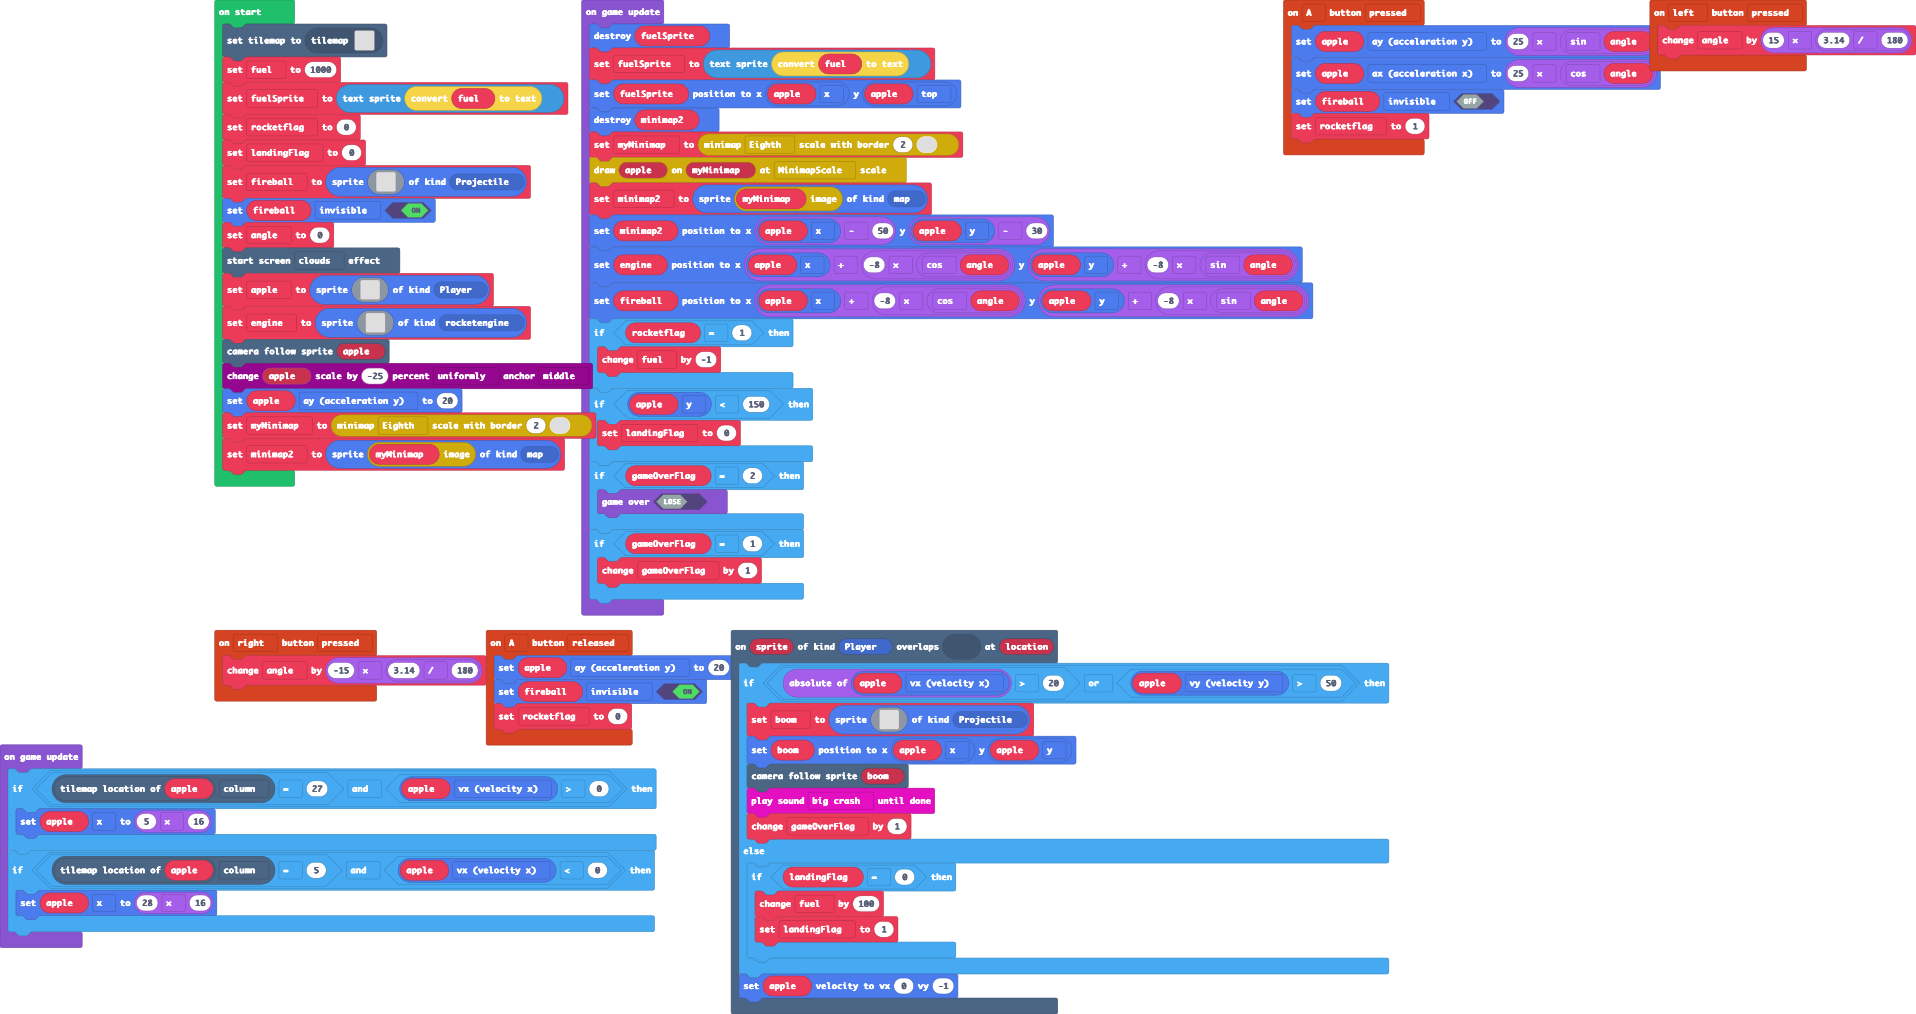
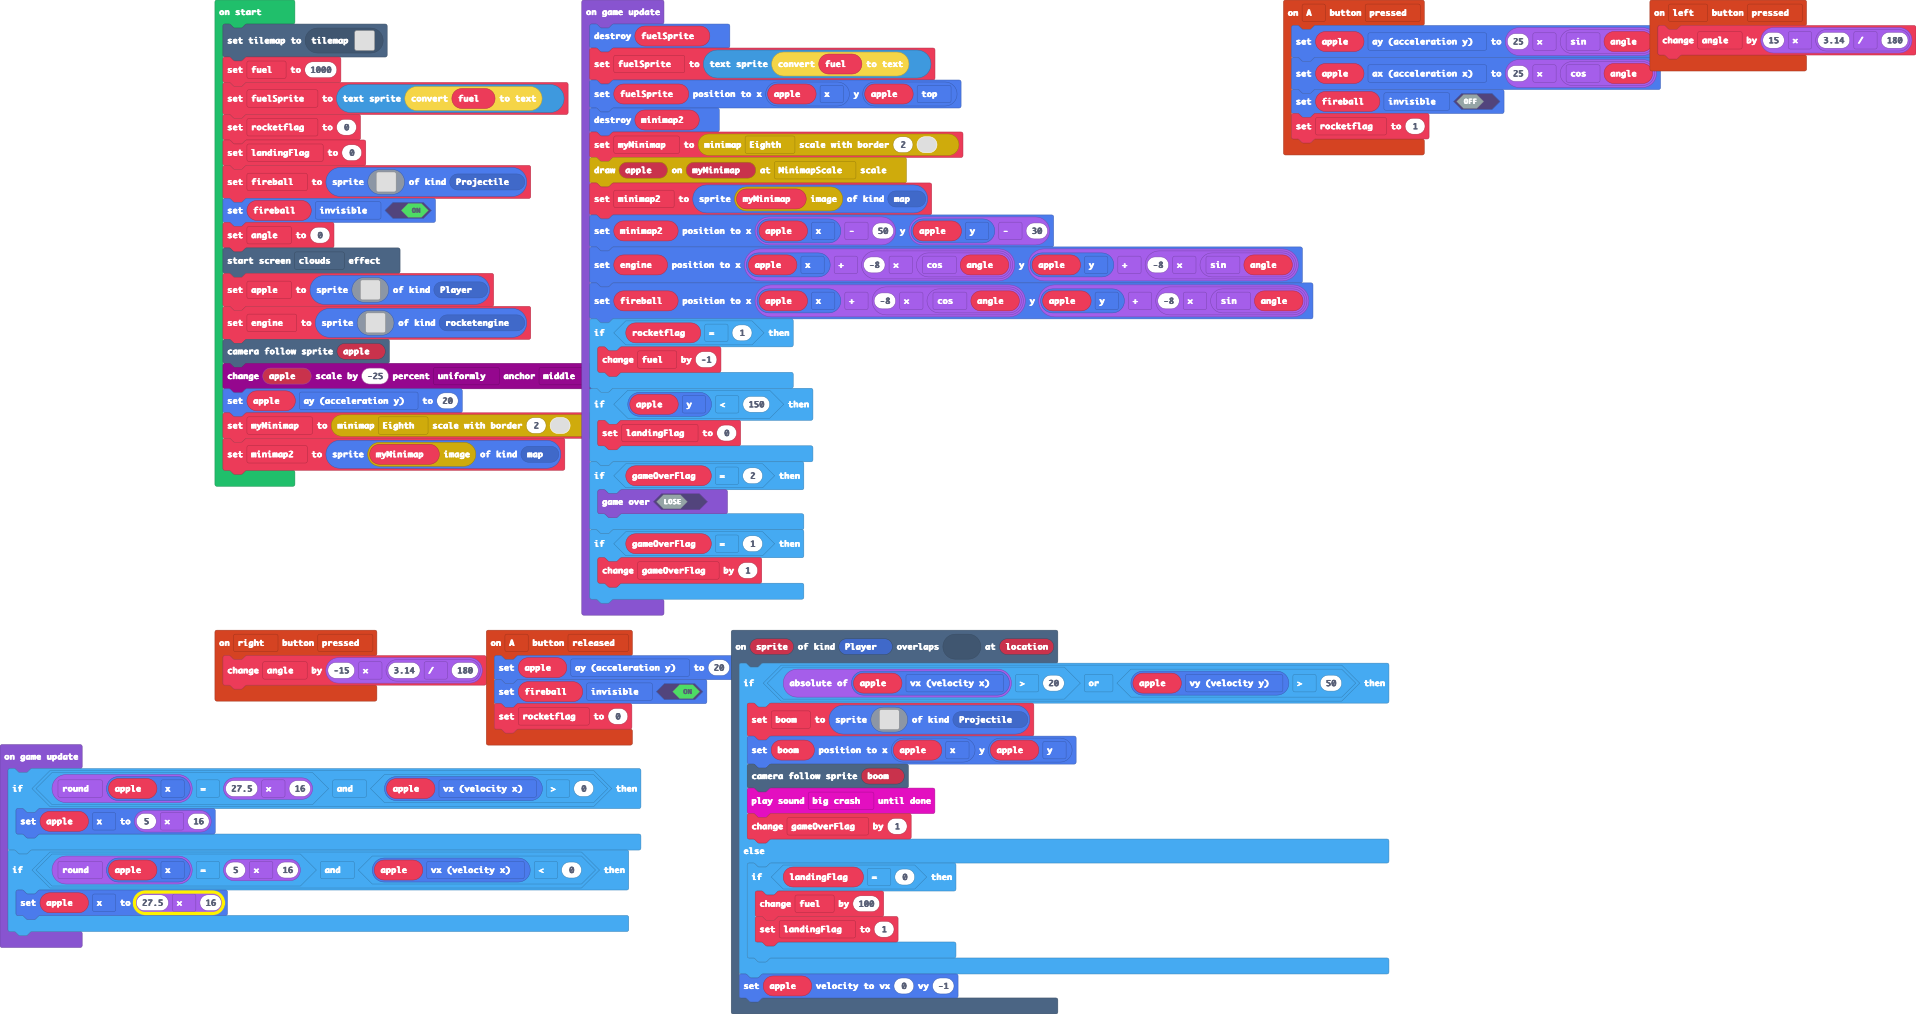
still working on wrapping

diff --git a/main.ts b/main.ts
@@ -136,10 +136,10 @@ game.onUpdate(function () {
     }
 })
 game.onUpdate(function () {
-    if (apple.tilemapLocation().column == 27 && apple.vx > 0) {
+    if (Math.round(apple.x) == 27.5 * 16 && apple.vx > 0) {
         apple.x = 5 * 16
     }
-    if (apple.tilemapLocation().column == 5 && apple.vx < 0) {
-        apple.x = 28 * 16
+    if (Math.round(apple.x) == 5 * 16 && apple.vx < 0) {
+        apple.x = 27.5 * 16
     }
 })
